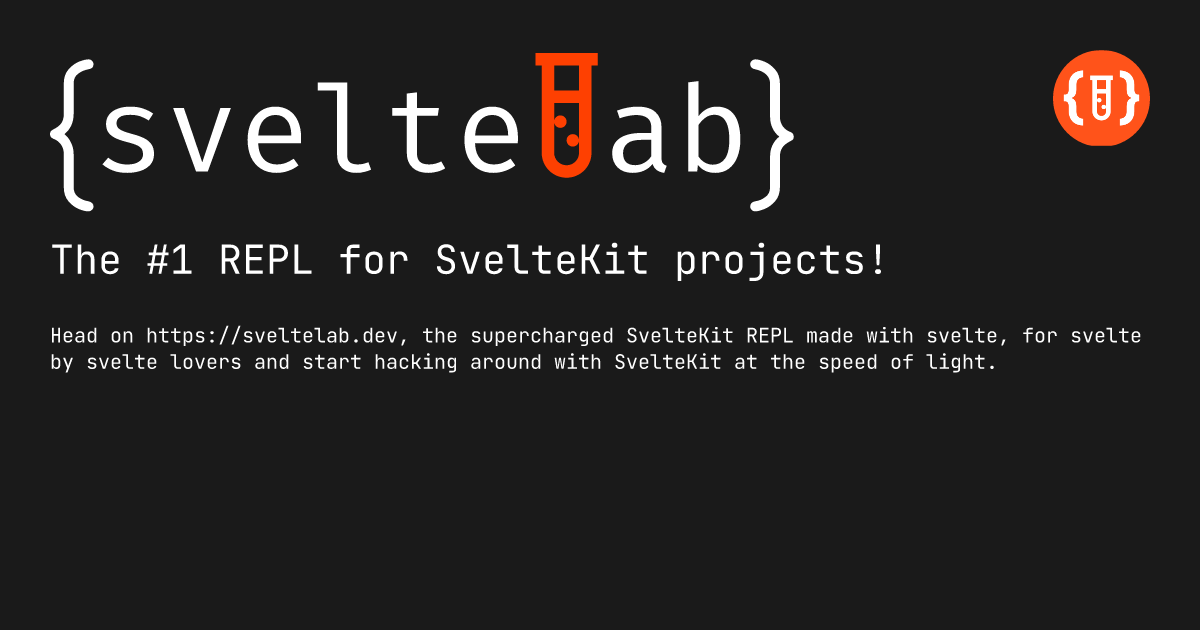
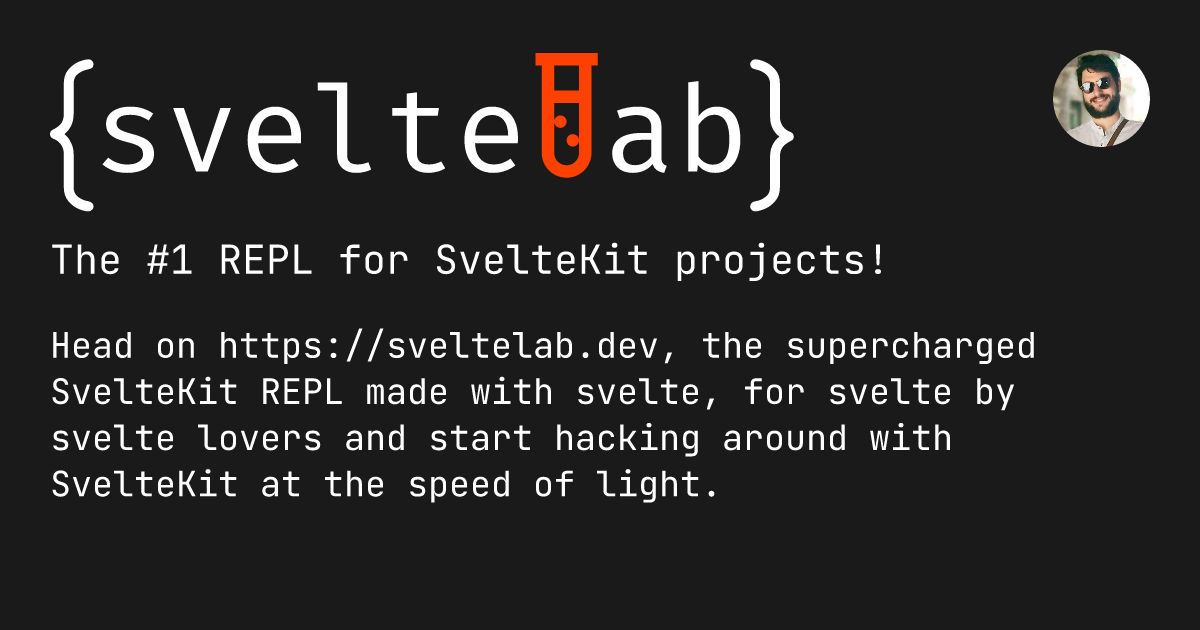
Various og:image changes

Changed region(s): [[0.0308, 0.5127, 0.9558, 0.7238], [0.0308, 0.754, 0.5858, 0.8143], [0.8633, 0.0603, 0.9558, 0.2413]]

diff --git a/src/hooks.server.ts b/src/hooks.server.ts
@@ -23,7 +23,8 @@ const handle_headers: Handle = async ({ event, resolve }) => {
 		transformPageChunk(input) {
 			const theme = event.cookies.get(PUBLIC_THEME_COOKIE_NAME) ?? '';
 			let html = input.html.replace('%sveltelab.theme%', theme);
-			const og_function = routes_og_map.get(event.route.id ?? 'default');
+			const og_function =
+				routes_og_map.get(event.route.id ?? 'default') ?? routes_og_map.get('default');
 			if (typeof og_function === 'function') {
 				html = html.replace('%sveltelab.og%', og_function(event));
 			}

diff --git a/src/app.html b/src/app.html
@@ -8,7 +8,7 @@
 	<meta name="viewport" content="width=device-width" />
 	<title>SvelteLab</title>
 	<meta property="og:site_name" content="SvelteLab" />
-	<meta property="og:title" content="SvelteLab - {title}" />
+	<meta property="og:title" content="SvelteLab" />
 	<meta property="og:type" content="website" />
 	<meta property="og:url" content="https://sveltelab.dev/" />
 	<meta property="og:description"

diff --git a/src/routes/og/OG.svelte b/src/routes/og/OG.svelte
@@ -54,7 +54,7 @@
 		display: flex;
 		width: 75%;
 		flex-direction: column;
-		padding: 30px;
+		padding: 40px;
 		align-items: flex-start;
 		flex-grow: 1;
 		gap: 10px;
@@ -83,7 +83,7 @@
 		border-radius: 10px;
 	}
 	p {
-		font-size: 20px;
+		font-size: 35px;
 	}
 	.tree :global(svg) {
 		position: absolute;

diff --git a/src/routes/og/OGDefault.svelte b/src/routes/og/OGDefault.svelte
@@ -54,6 +54,6 @@
 		font-size: 40px;
 	}
 	p {
-		font-size: 20px;
+		font-size: 35px;
 	}
 </style>
